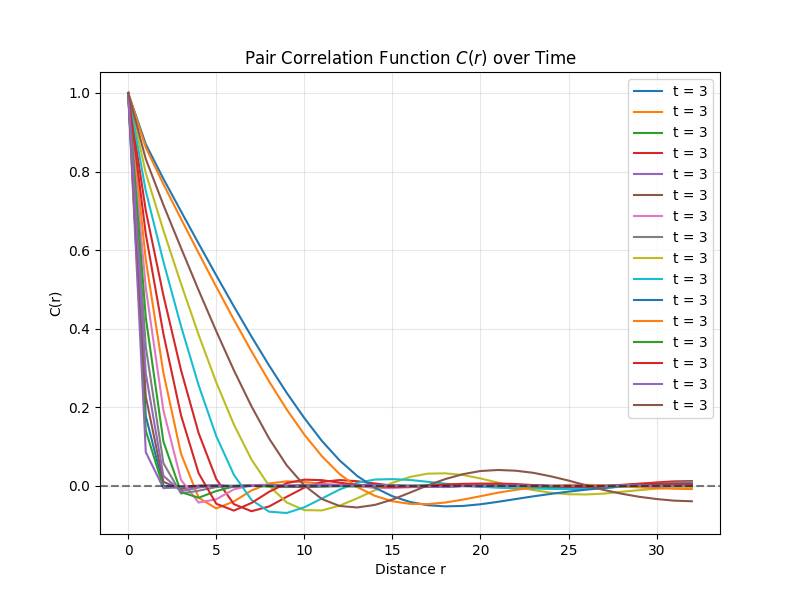
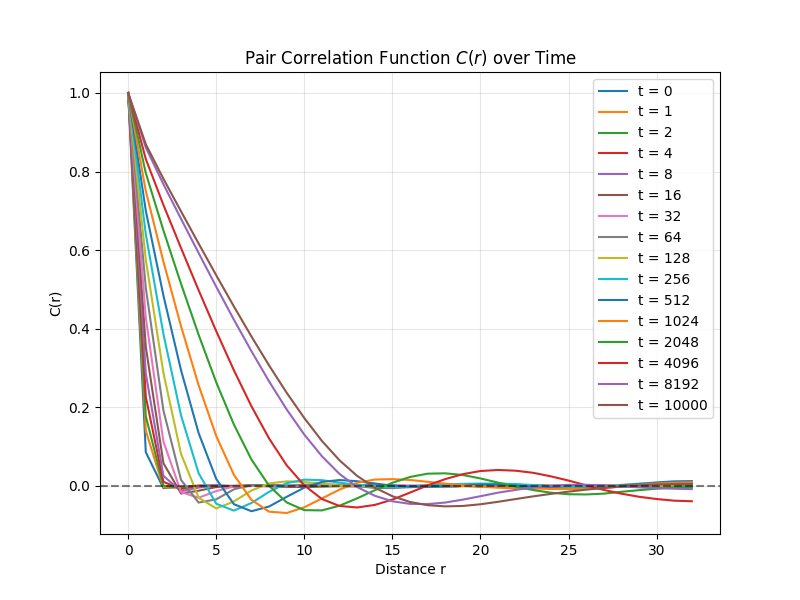
address 3d's title problem

Changed region(s): [[0.1562, 0.15, 0.875, 0.87], [0.75, 0.15, 0.875, 0.69]]

diff --git a/src/plot_lattice_3d.py b/src/plot_lattice_3d.py
@@ -20,8 +20,9 @@ SLICE_INDEX = L // 2  # 2D切片的位置（中间）
 def generate_3d_gif():
     # 1. 获取并排序文件
     files = glob.glob(os.path.join(INPUT_DIR, 'lattice_3d_t_*.txt'))
+    print(f"找到的文件列表: {files}")
     # 使用正则表达式提取时间步 t 进行数值排序
-    files.sort(key=lambda x: int(re.search(r't_(\d+)', x).group(1)))
+    files.sort(key=lambda x: int(re.search(r't_(\d+)\.txt', x).group(1)))
 
     if not files:
         print(f"错误: 在 {INPUT_DIR}/ 中未找到数据文件。请先运行 C++ 模拟。")
@@ -60,7 +61,7 @@ def generate_3d_gif():
     # 3. 定义动画更新函数
     def update(frame_idx):
         current_file = files[frame_idx]
-        t_val = re.search(r't_(\d+)', current_file).group(1)
+        t_val = re.search(r't_(\d+)\.txt', current_file).group(1)
         print(f"Processing frame {frame_idx+1}/{len(files)}: t = {t_val} MCS...")
 
         # 读取并重构数据

diff --git a/src/plot_R_from_pair_cor.py b/src/plot_R_from_pair_cor.py
@@ -17,11 +17,11 @@ def plot_scaling_comparison():
 
     # 获取关联函数零点数据
     cr_files = glob.glob('../output/Cr_t_*.txt')
-    cr_files.sort(key=lambda x: int(re.search(r't_(\d+)', x).group(1)))
+    cr_files.sort(key=lambda x: int(re.search(r't_(\d+)\.txt', x).group(1)))
     
     t_c, R_c = [], []
     for f in cr_files:
-        t_val = int(re.search(r't_(\d+)', f).group(1))
+        t_val = int(re.search(r't_(\d+)\.txt', f).group(1))
         data = np.loadtxt(f)
         z = find_zero_crossing(data[:, 0], data[:, 1])
         if z:

diff --git a/src/plot_correlation_func.py b/src/plot_correlation_func.py
@@ -5,11 +5,11 @@ import re
 
 def plot_correlations():
     files = glob.glob('../output_3d/Cr_t_*.txt')
-    files.sort(key=lambda x: int(re.search(r't_(\d+)', x).group(1)))
+    files.sort(key=lambda x: int(re.search(r't_(\d+)\.txt', x).group(1)))
 
     plt.figure(figsize=(8, 6))
     for f in files:
-        t = re.search(r't_(\d+)', f).group(1)
+        t = re.search(r't_(\d+)\.txt', f).group(1)
         data = np.loadtxt(f)
         plt.plot(data[:, 0], data[:, 1], label=f't = {t}')
 
